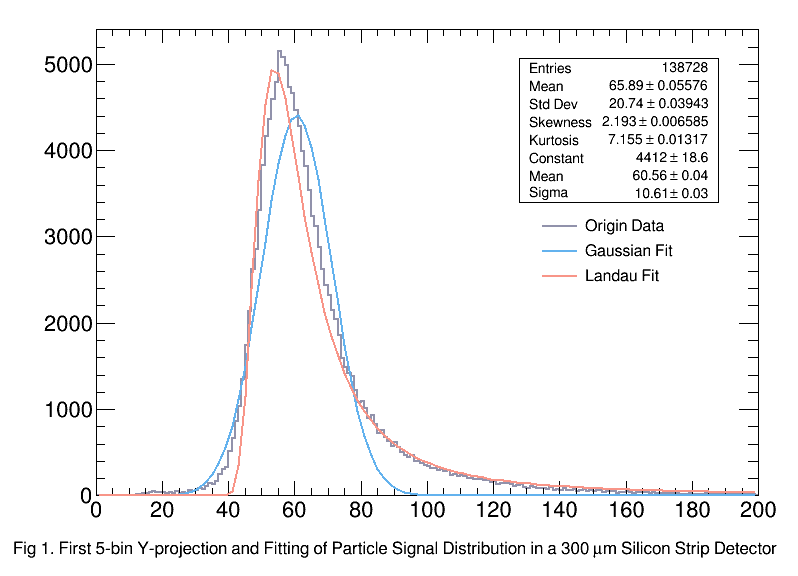
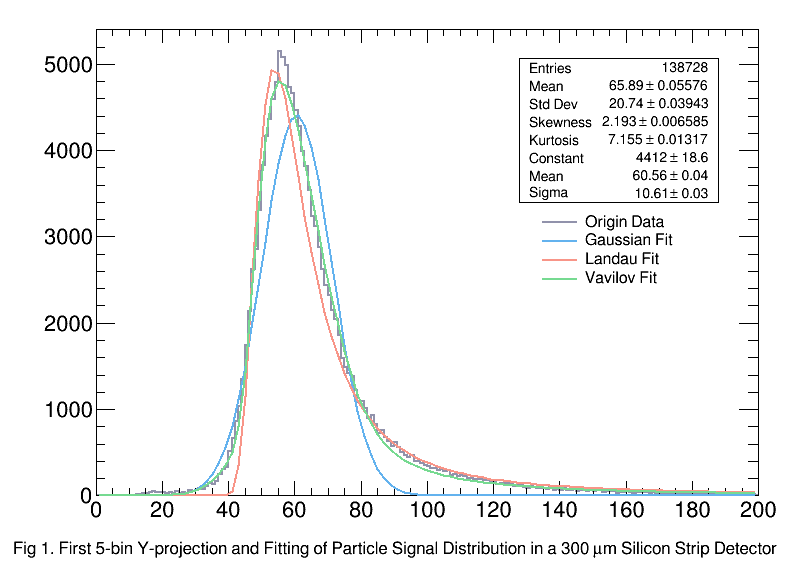
need adjust OptFit code. How to show Vavilov Fit Stat?

diff --git a/actask3/task1_3bk.C b/actask3/task1_3bk.C
@@ -18,7 +18,6 @@ void task1_3(){
 
     TH1D *h1a = r_strip -> ProjectionY("TemTitle1", 1, 5);
     TH1D *h1b = r_strip -> ProjectionY("TemTitle2", 1, 5);
-    TH1D *h1c = r_strip -> ProjectionY("TemTitle3", 1, 5);
 
     h1a -> Fit("gaus", "q");
     TF1 *fitResult = h1a -> GetFunction("gaus");
@@ -28,21 +27,13 @@ void task1_3(){
     TF1 *fitResultLandau = h1b -> GetFunction("landau");
     fitResultLandau -> SetLineColor(kRed);
 
-    TF1 *fitResultVavilov = new TF1("vavilov", "[0]*TMath::Gaus(x, [1], [2]) + [3]*TMath::Landau(x, [4], [5])", 0, 200); 
-    fitResultVavilov -> SetParameters(1, 20, 5, 1, 10, 2);  // 初始参数
-    h1c -> Fit("vavilov", "R"); // Vavilov分布拟合
-    h1c -> GetFunction("vavilov");
-    fitResultVavilov -> SetLineColor(kBlue);
-
 
     // 创建 root 文件, 后续再输出图像文件
     TFile *outFile = new TFile("output1_3.root", "RECREATE"); 
     h1a -> Write();
     h1b -> Write();
-    h1c -> Write();
     fitResult -> Write("gauseFit");
     fitResultLandau -> Write("landauFit");
-    fitResultVavilov -> Write("vavilovFit");
     outFile -> Close();
     file -> Close();
 
@@ -53,30 +44,26 @@ void task1_3(){
     TH1D *h2 = (TH1D*)inFile -> Get("TemTitle1");
     TF1 *fitResult2 = (TF1*)inFile -> Get("gauseFit");
     TF1 *fitResultLandau2 = (TF1*)inFile -> Get("landauFit");
-    TF1 *fitResultVavilov2 = (TF1*)inFile -> Get("vavilovFit");
 
     TColor *colorGray = new TColor(2000, 145/255.0, 146/255.0, 171/255.0);
     TColor *colorBlue = new TColor(2001, 99/255.0, 178/255.0, 238/255.0);
     TColor *colorRed = new TColor(2002, 248/255.0, 149/255.0, 136/255.0);
-    TColor *colorGreen = new TColor(2003, 118/255.0, 218/255.0, 145/255.0);
     h2 -> SetLineColor(2000);
     fitResult2 -> SetLineColor(2001);
     fitResultLandau2 -> SetLineColor(2002);
-    fitResultVavilov2 -> SetLineColor(2003);
     
+
     TCanvas *c1 = new TCanvas("c1", "Histogram", 800, 600);
     h2 -> GetXaxis() -> SetLabelSize(0.04);
     h2 -> GetYaxis() -> SetLabelSize(0.04);
     h2 -> Draw();
     fitResult2 -> Draw("same");
     fitResultLandau2 -> Draw("same");
-    fitResultVavilov2 -> Draw("same");
 
     TLegend *legend = new TLegend(0.67, 0.5, 0.92, 0.63);
     legend -> AddEntry(h2, "Origin Data", "l");
     legend -> AddEntry(fitResult2, "Gaussian Fit", "l");
     legend -> AddEntry(fitResultLandau2, "Landau Fit", "l");
-    legend -> AddEntry(fitResultVavilov2, "Vavilov Fit", "l");
     legend -> SetTextSize(0.03);
     legend -> Draw();
 
